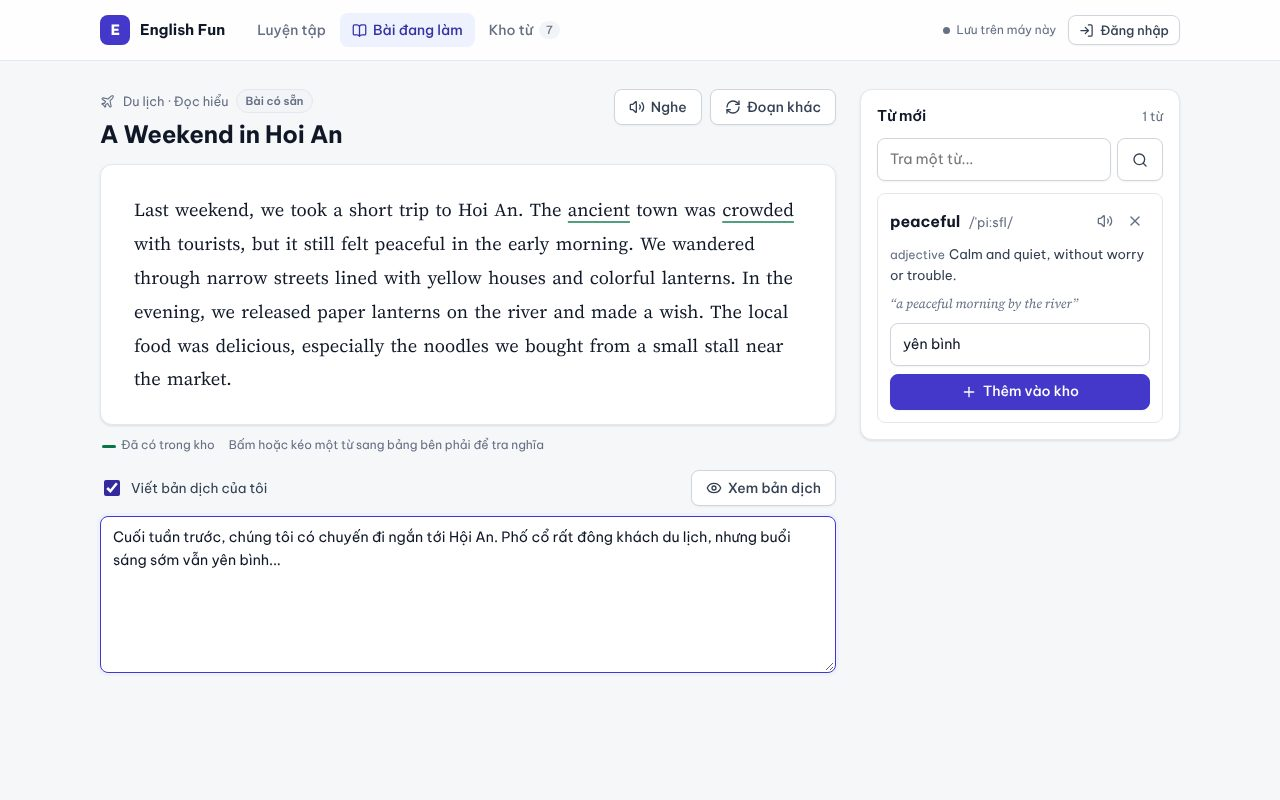
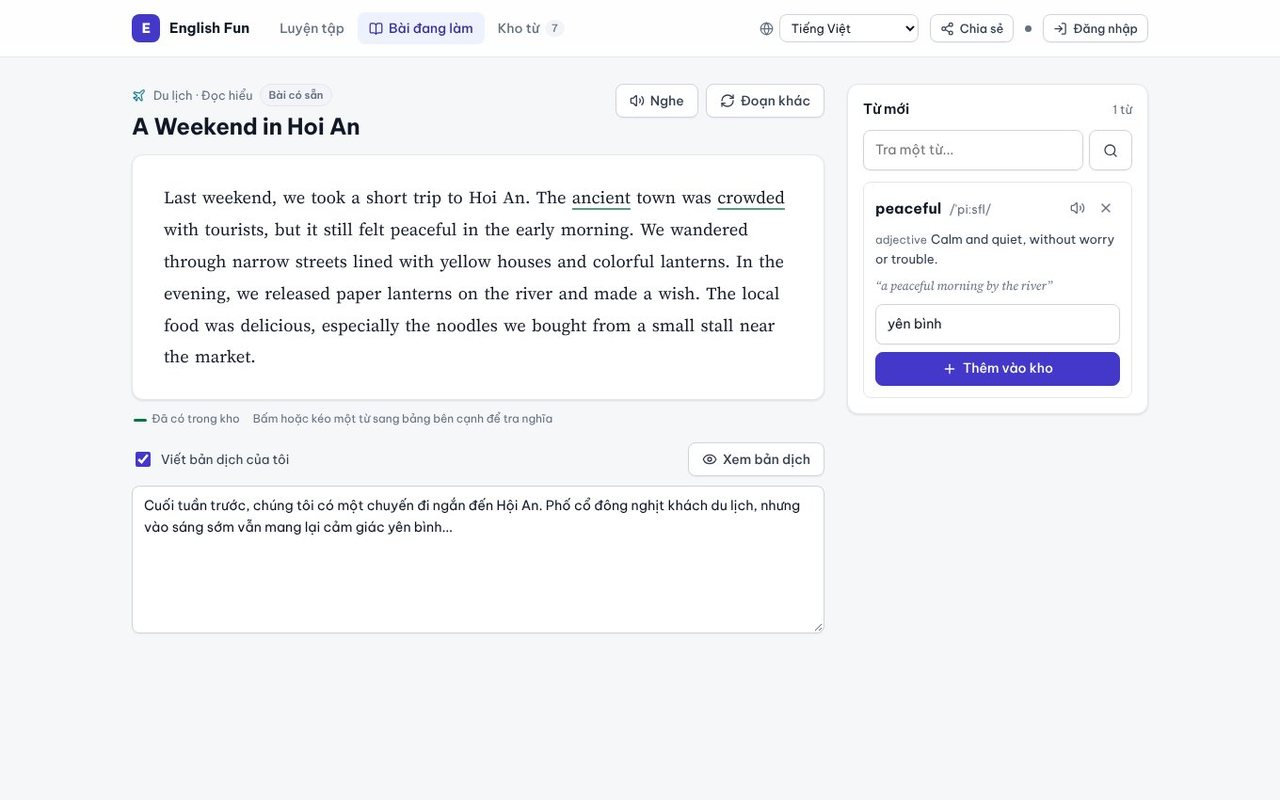
Show the app in each page's language on the home pages
New reading and writing screenshots for every app language (English
uses the Spanish ones), taken with scripts/app-screenshots.cjs. Also
translates the two writing placeholders that were still in English, keeps
long menu labels on one line, and stops Korean headings breaking mid-word.

Claude-Session: https://claude.ai/code/session_01XGY3rRoxrwVkGhLL6xU9EA

diff --git a/site/build.ts b/site/build.ts
@@ -43,6 +43,8 @@ function home(h: HomeCopy): string {
   const isVi = h.code === 'vi'
   const tryHref = tryUrl(h)
   const path = homePath(h)
+  /** Screenshots of the app in the page's language (English has no app language, so it shows Spanish). */
+  const shot = isVi ? '' : `-${h.code === 'en' ? 'es' : h.code}`
   const features = [BookOpen, PenLine, Library].map((ic, i) => ({ ic, title: h.features[i][0], text: h.features[i][1] }))
   const schema = [
     {
@@ -104,7 +106,7 @@ function home(h: HomeCopy): string {
             <p class="muted small">${esc(h.runs)}</p>
           </div>
           <figure class="shot hero-shot">
-            <img src="/img/doc-hieu.jpg" width="1280" height="800" alt="${esc(h.heroAlt)}" fetchpriority="high" />
+            <img src="/img/doc-hieu${shot}.jpg" width="1280" height="800" alt="${esc(h.heroAlt)}" fetchpriority="high" />
           </figure>
         </div>
       </section>
@@ -125,7 +127,7 @@ function home(h: HomeCopy): string {
       </section>
 
       <section class="wrap section split-media">
-        <figure class="shot"><img src="/img/viet-dich.jpg" width="1280" height="800" loading="lazy" alt="${esc(h.writeAlt)}" /></figure>
+        <figure class="shot"><img src="/img/viet-dich${shot}.jpg" width="1280" height="800" loading="lazy" alt="${esc(h.writeAlt)}" /></figure>
         <div>
           <h2 class="section-title left">${esc(h.stepsTitle)}</h2>
           <ol class="steps">

diff --git a/src/index.css b/src/index.css
@@ -159,6 +159,9 @@ main.container { padding-top: 28px; padding-bottom: 64px; }
 .logo-mark { width: 30px; height: 30px; border-radius: 8px; background: var(--accent); color: #fff; display: grid; place-items: center; font-weight: 800; font-size: 0.95rem; letter-spacing: -0.04em; }
 @media (prefers-color-scheme: dark) { .logo-mark { color: #0c0e12; } }
 .tabs { display: flex; gap: 2px; }
+.brand, .tab, .topbar-right button { white-space: nowrap; }
+/* Long labels (German, French...) need the room on mid-size screens. */
+@media (max-width: 1400px) { .topbar .sync-text { display: none; } }
 .tab { border: none; background: none; box-shadow: none; color: var(--muted); font-weight: 500; min-height: 34px; padding: 0 12px; }
 .tab:hover:not(:disabled) { background: var(--surface-2); color: var(--text); }
 .tab.active { background: var(--accent-soft); color: var(--accent-text); }

diff --git a/src/components/WritingView.tsx b/src/components/WritingView.tsx
@@ -159,7 +159,7 @@ export function WritingView({ topic, vocab, settings }: Props) {
           style={{ marginTop: 12 }}
           value={translation}
           onChange={(e) => setTranslation(e.target.value)}
-          placeholder="Write your English translation here..."
+          placeholder={t.writing.answerPlaceholder}
           rows={7}
           spellCheck
         />
@@ -175,7 +175,7 @@ export function WritingView({ topic, vocab, settings }: Props) {
             <textarea
               value={ownSentences}
               onChange={(e) => setOwnSentences(e.target.value)}
-              placeholder="Your own sentences..."
+              placeholder={t.writing.ownPlaceholder}
               rows={3}
               spellCheck
             />

diff --git a/src/i18n/locales/hi.ts b/src/i18n/locales/hi.ts
@@ -78,6 +78,8 @@ const hi: Messages = {
     step1: 'अनुच्छेद का अंग्रेज़ी में अनुवाद करें',
     step2: 'बचे हुए शब्दों से 2-3 वाक्य और लिखें',
     optional: '(वैकल्पिक)',
+    answerPlaceholder: 'अपना अंग्रेज़ी अनुवाद यहाँ लिखें...',
+    ownPlaceholder: 'आपके अपने वाक्य...',
     submitAi: 'जाँच के लिए भेजें',
     submit: 'जाँचें',
     grading: 'जाँच हो रही है...',

diff --git a/public/site.css b/public/site.css
@@ -290,3 +290,5 @@ mark { background: var(--mark); color: inherit; border-radius: 3px; padding: 0 2
 .lang-suggest-close:hover { background: color-mix(in srgb, var(--accent) 12%, transparent); }
 /* Break Japanese headings at phrase boundaries instead of mid-word. */
 :lang(ja) :is(h1, h2, h3, .lead) { word-break: auto-phrase; }
+/* Korean wraps between words, not inside them. */
+:lang(ko) :is(h1, h2, h3, p, .lead) { word-break: keep-all; }

diff --git a/src/i18n/locales/vi.ts b/src/i18n/locales/vi.ts
@@ -95,6 +95,8 @@ const vi: Messages = {
     step1: 'Dịch đoạn văn sang tiếng Anh',
     step2: 'Viết thêm 2-3 câu dùng các từ còn thiếu',
     optional: '(không bắt buộc)',
+    answerPlaceholder: 'Viết bản dịch tiếng Anh của bạn ở đây...',
+    ownPlaceholder: 'Câu của bạn...',
     submitAi: 'Nộp bài và chấm',
     submit: 'Kiểm tra',
     grading: 'Đang chấm...',

diff --git a/src/i18n/locales/ja.ts b/src/i18n/locales/ja.ts
@@ -78,6 +78,8 @@ const ja: Messages = {
     step1: '文章を英語に翻訳しましょう',
     step2: 'まだ使っていない単語で、あと2〜3文書きましょう',
     optional: '（任意）',
+    answerPlaceholder: 'ここに英訳を書きましょう...',
+    ownPlaceholder: '自分で作った文...',
     submitAi: '提出して添削',
     submit: 'チェック',
     grading: '添削中...',

diff --git a/src/i18n/locales/de.ts b/src/i18n/locales/de.ts
@@ -78,6 +78,8 @@ const de: Messages = {
     step1: 'Übersetze den Text ins Englische',
     step2: 'Schreibe 2-3 weitere Sätze mit den fehlenden Wörtern',
     optional: '(optional)',
+    answerPlaceholder: 'Schreib hier deine englische Übersetzung...',
+    ownPlaceholder: 'Deine eigenen Sätze...',
     submitAi: 'Zur Korrektur abgeben',
     submit: 'Prüfen',
     grading: 'Wird geprüft...',

diff --git a/src/i18n/locales/ko.ts b/src/i18n/locales/ko.ts
@@ -78,6 +78,8 @@ const ko: Messages = {
     step1: '글을 영어로 번역하세요',
     step2: '아직 쓰지 않은 단어로 2~3문장을 더 써 보세요',
     optional: '(선택)',
+    answerPlaceholder: '여기에 영어 번역을 쓰세요...',
+    ownPlaceholder: '직접 만든 문장...',
     submitAi: '제출하고 첨삭 받기',
     submit: '확인',
     grading: '첨삭 중...',

diff --git a/src/i18n/locales/fr.ts b/src/i18n/locales/fr.ts
@@ -78,6 +78,8 @@ const fr: Messages = {
     step1: 'Traduisez le texte en anglais',
     step2: 'Écrivez 2-3 phrases de plus avec les mots manquants',
     optional: '(facultatif)',
+    answerPlaceholder: 'Écrivez ici votre traduction en anglais...',
+    ownPlaceholder: 'Vos propres phrases...',
     submitAi: 'Envoyer pour correction',
     submit: 'Vérifier',
     grading: 'Correction...',

diff --git a/src/i18n/locales/pt.ts b/src/i18n/locales/pt.ts
@@ -78,6 +78,8 @@ const pt: Messages = {
     step1: 'Traduza o texto para o inglês',
     step2: 'Escreva mais 2-3 frases com as palavras que faltam',
     optional: '(opcional)',
+    answerPlaceholder: 'Escreva aqui sua tradução para o inglês...',
+    ownPlaceholder: 'Suas próprias frases...',
     submitAi: 'Enviar para correção',
     submit: 'Verificar',
     grading: 'Corrigindo...',

diff --git a/src/i18n/locales/id.ts b/src/i18n/locales/id.ts
@@ -78,6 +78,8 @@ const id: Messages = {
     step1: 'Terjemahkan bacaan ke bahasa Inggris',
     step2: 'Tulis 2-3 kalimat lagi dengan kata yang belum dipakai',
     optional: '(opsional)',
+    answerPlaceholder: 'Tulis terjemahan bahasa Inggrismu di sini...',
+    ownPlaceholder: 'Kalimatmu sendiri...',
     submitAi: 'Kirim untuk dinilai',
     submit: 'Periksa',
     grading: 'Menilai...',
